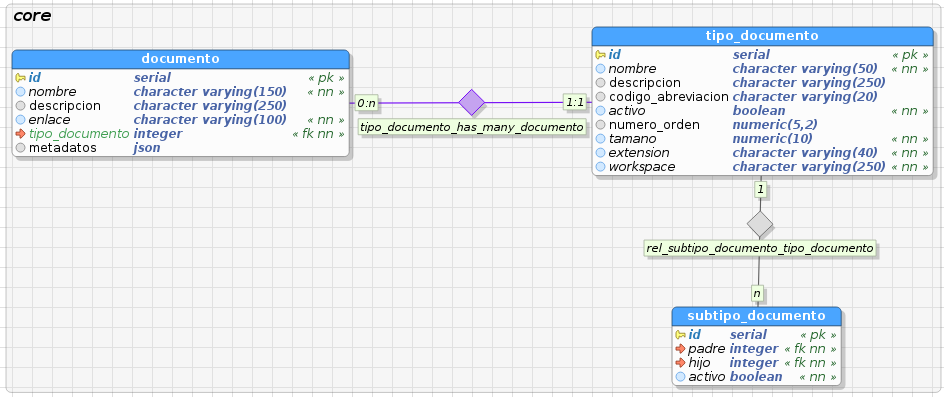
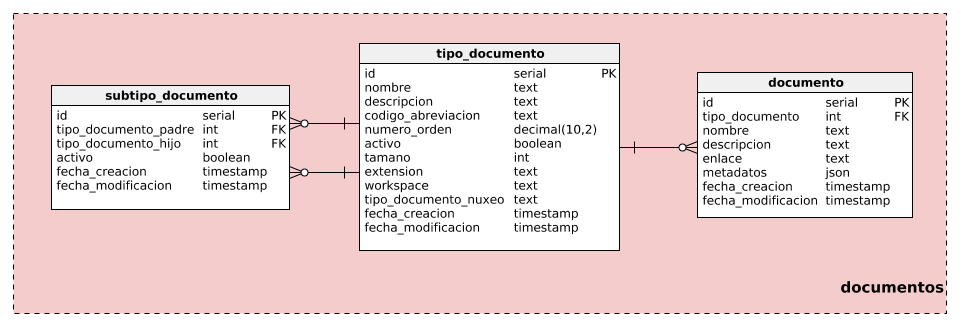
Ajustes de fechas de auditoria

diff --git a/models/documento.go b/models/documento.go
@@ -5,17 +5,19 @@ import (
 	"fmt"
 	"reflect"
 	"strings"
+	"time"
 
 	"github.com/astaxie/beego/orm"
 )
 
 type Documento struct {
-	Id            int            `orm:"column(id);pk;auto"`
-	Nombre        string         `orm:"column(nombre)"`
-	Descripcion   string         `orm:"column(descripcion);null"`
-	Enlace        string         `orm:"column(enlace)"`
-	TipoDocumento *TipoDocumento `orm:"column(tipo_documento);rel(fk)"`
-	Metadatos     string         `orm:"column(metadatos);type(json);null"`
+	Id                int            `orm:"column(id);pk;auto"`
+	Nombre            string         `orm:"column(nombre)"`
+	Descripcion       string         `orm:"column(descripcion);null"`
+	Enlace            string         `orm:"column(enlace)"`
+	TipoDocumento     *TipoDocumento `orm:"column(tipo_documento);rel(fk)"`
+	Metadatos         string         `orm:"column(metadatos);type(json);null"`
+	FechaModificacion string         `orm:"column(fecha_modificacion);null"`
 }
 
 func (t *Documento) TableName() string {
@@ -29,6 +31,9 @@ func init() {
 // AddDocumento insert a new Documento into database and returns
 // last inserted Id on success.
 func AddDocumento(m *Documento) (id int64, err error) {
+	var t time.Time
+	t = time.Now()
+	m.FechaModificacion = fmt.Sprintf("%s", t.UTC().Format(time.UnixDate))
 	o := orm.NewOrm()
 	id, err = o.Insert(m)
 	return
@@ -128,6 +133,9 @@ func GetAllDocumento(query map[string]string, fields []string, sortby []string, 
 func UpdateDocumentoById(m *Documento) (err error) {
 	o := orm.NewOrm()
 	v := Documento{Id: m.Id}
+	var t time.Time
+	t = time.Now()
+	m.FechaModificacion = fmt.Sprintf("%s", t.UTC().Format(time.UnixDate))
 	// ascertain id exists in the database
 	if err = o.Read(&v); err == nil {
 		var num int64

diff --git a/models/subtipo_documento.go b/models/subtipo_documento.go
@@ -5,15 +5,17 @@ import (
 	"fmt"
 	"reflect"
 	"strings"
+	"time"
 
 	"github.com/astaxie/beego/orm"
 )
 
 type SubtipoDocumento struct {
-	Id     int            `orm:"column(id);pk;auto"`
-	Padre  *TipoDocumento `orm:"column(padre);rel(fk)"`
-	Hijo   *TipoDocumento `orm:"column(hijo);rel(fk)"`
-	Activo bool           `orm:"column(activo)"`
+	Id                 int            `orm:"column(id);pk;auto"`
+	TipoDocumentoPadre *TipoDocumento `orm:"column(tipo_documento_padre);rel(fk)"`
+	TipoDocumentoHijo  *TipoDocumento `orm:"column(tipo_documento_hijo);rel(fk)"`
+	Activo             bool           `orm:"column(activo)"`
+	FechaModificacion  string         `orm:"column(fecha_modificacion);null"`
 }
 
 func (t *SubtipoDocumento) TableName() string {
@@ -27,6 +29,9 @@ func init() {
 // AddSubtipoDocumento insert a new SubtipoDocumento into database and returns
 // last inserted Id on success.
 func AddSubtipoDocumento(m *SubtipoDocumento) (id int64, err error) {
+	var t time.Time
+	t = time.Now()
+	m.FechaModificacion = fmt.Sprintf("%s", t.UTC().Format(time.UnixDate))
 	o := orm.NewOrm()
 	id, err = o.Insert(m)
 	return
@@ -126,6 +131,9 @@ func GetAllSubtipoDocumento(query map[string]string, fields []string, sortby []s
 func UpdateSubtipoDocumentoById(m *SubtipoDocumento) (err error) {
 	o := orm.NewOrm()
 	v := SubtipoDocumento{Id: m.Id}
+	var t time.Time
+	t = time.Now()
+	m.FechaModificacion = fmt.Sprintf("%s", t.UTC().Format(time.UnixDate))
 	// ascertain id exists in the database
 	if err = o.Read(&v); err == nil {
 		var num int64

diff --git a/models/tipo_documento.go b/models/tipo_documento.go
@@ -5,6 +5,7 @@ import (
 	"fmt"
 	"reflect"
 	"strings"
+	"time"
 
 	"github.com/astaxie/beego/orm"
 )
@@ -20,6 +21,7 @@ type TipoDocumento struct {
 	Extension          string  `orm:"column(extension);null"`
 	Workspace          string  `orm:"column(workspace)"`
 	TipoDocumentoNuxeo string  `orm:"column(tipo_documento_nuxeo);null"`
+	FechaModificacion  string  `orm:"column(fecha_modificacion);null"`
 }
 
 func (t *TipoDocumento) TableName() string {
@@ -33,6 +35,9 @@ func init() {
 // AddTipoDocumento insert a new TipoDocumento into database and returns
 // last inserted Id on success.
 func AddTipoDocumento(m *TipoDocumento) (id int64, err error) {
+	var t time.Time
+	t = time.Now()
+	m.FechaModificacion = fmt.Sprintf("%s", t.UTC().Format(time.UnixDate))
 	o := orm.NewOrm()
 	id, err = o.Insert(m)
 	return
@@ -132,6 +137,9 @@ func GetAllTipoDocumento(query map[string]string, fields []string, sortby []stri
 func UpdateTipoDocumentoById(m *TipoDocumento) (err error) {
 	o := orm.NewOrm()
 	v := TipoDocumento{Id: m.Id}
+	var t time.Time
+	t = time.Now()
+	m.FechaModificacion = fmt.Sprintf("%s", t.UTC().Format(time.UnixDate))
 	// ascertain id exists in the database
 	if err = o.Read(&v); err == nil {
 		var num int64

diff --git a/README.md b/README.md
@@ -1,20 +1,33 @@
 # documentos_crud
-API de documentos, Integración con CI
-documentos_crud master/develop
- ## Requirements
+API de gestión de documentos
+
+Integración con
+
+ - `CI`
+ - `AWS Lambda - S3`
+ - `Drone 1.x`
+ - `documentos_crud master/develop`
+
+## Requerimientos
 Go version >= 1.8.
- ## Preparation:
-    Para usar el API, usar el comando:
-        - go get github.com/udistrital/documentos_crud
- ## Run
- Definir los valores de las siguientes variables de entorno:
-  - `DOCUMENTOS_HTTP_PORT`: Puerto asignado para la ejecución del API
+
+## Preparación
+Para usar el API, usar el comando:
+
+ - `go get github.com/planesticud/documentos_crud`
+
+## Ejecución
+Definir los valores de las siguientes variables de entorno:
+
+ - `DOCUMENTOS_HTTP_PORT`: Puerto asignado para la ejecución del API
  - `DOCUMENTOS_CRUD__PGUSER`: Usuario de la base de datos
  - `DOCUMENTOS_CRUD__PGPASS`: Clave del usuario para la conexión a la base de datos  
  - `DOCUMENTOS_CRUD__PGURLS`: Host de conexión
  - `DOCUMENTOS_CRUD__PGDB`: Nombre de la base de datos
  - `DOCUMENTOS_CRUD__SCHEMA`: Esquema a utilizar en la base de datos
- ## Example:
-DOCUMENTOS_HTTP_PORT=8095 DOCUMENTOS_CRUD__PGUSER=postgres DOCUMENTOS_CRUD__PGPASS=password DOCUMENTOS_CRUD__PGURLS=localhost DOCUMENTOS_CRUD__PGDB=local DOCUMENTOS_CRUD__SCHEMA=core_new bee run
- ## Model DB
-![image](https://github.com/udistrital/documentos_crud/blob/develop/modelo_documentos_crud.png).
+
+## Ejemplo
+DOCUMENTOS_HTTP_PORT=8094 DOCUMENTOS_CRUD__PGUSER=user DOCUMENTOS_CRUD__PGPASS=password DOCUMENTOS_CRUD__PGURLS=localhost DOCUMENTOS_CRUD__PGDB=bd DOCUMENTOS_CRUD__SCHEMA=schema_new bee run
+
+## Modelo BD
+![image](https://github.com/planesticud/documentos_crud/blob/develop/modelo_documentos_crud.png).
